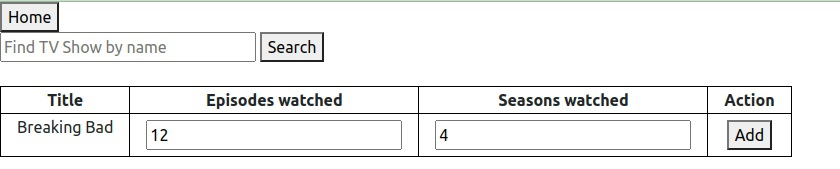
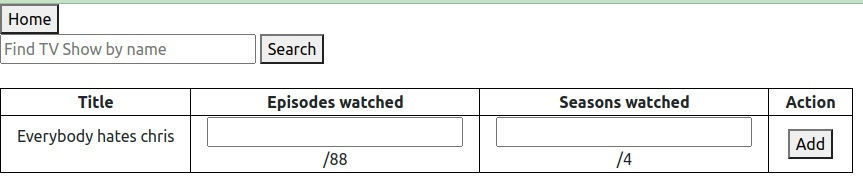
MASTER Front upgrades

diff --git a/services/shows-frontend-service/src/main/resources/templates/myShows.html b/services/shows-frontend-service/src/main/resources/templates/myShows.html
@@ -23,8 +23,8 @@
     <tbody>
     <tr>
         <th>Show</th>
-        <th>Seasons watched</th>
         <th>Episodes watched</th>
+        <th>Seasons watched</th>
         <th>Action</th>
     </tr>
     <tr th:each="record: ${records}">
@@ -32,8 +32,10 @@
 
         <form th:action="@{/front/users/shows/{id}(id=${record.showId})}" th:object="${request}" th:method="put">
             <td style="display:none;"><input type="text" name="showId" th:value="${record.showId}"></td>
-            <td><input type="text" name="episodesWatched" th:value="${record.episodesWatched}"></td>
-            <td><input type="text" name="seasonsWatched" th:value="${record.seasonsWatched}"></td>
+            <td><input type="text" name="episodesWatched" th:value="${record.episodesWatched}"><div>/<th:block
+                    th:text="${record.episodesCount}"></th:block></div></td>
+            <td><input type="text" name="seasonsWatched" th:value="${record.seasonsWatched}"><div>/<th:block
+                    th:text="${record.seasonsCount}"></th:block></div></td>
             <td>
                 <button type="submit">Update</button>
             </td>

diff --git a/services/shows-frontend-service/src/main/resources/templates/addShowUser.html b/services/shows-frontend-service/src/main/resources/templates/addShowUser.html
@@ -28,8 +28,8 @@
         <form th:action="@{/front/users/shows/{id}(id=${show.id})}" th:object="${request}" th:method="post">
             <td style="display:none;"><input type="text" name="showId" th:value="${show.id}"></td>
             <td><p th:text="${show.title}"></p></td>
-            <td><input type="text" name="episodesWatched"></td>
-            <td><input type="text" name="seasonsWatched"></td>
+            <td><input type="text" name="episodesWatched"><div>/<th:block th:text="${show.episodesCount}"></th:block></div></td>
+            <td><input type="text" name="seasonsWatched"><div>/<th:block th:text="${show.seasonsCount}"></th:block></div></td>
             <td>
                 <button type="submit">Add</button>
             </td>

diff --git a/common/data/src/main/java/com/demo/showcase/common/data/UserShowsRepository.java b/common/data/src/main/java/com/demo/showcase/common/data/UserShowsRepository.java
@@ -26,7 +26,7 @@ public class UserShowsRepository extends BaseRepository<UserShowsEntity> {
 
     public List<GetUserShowsResponse> getUserShows(UUID userId) {
         return em.createQuery("""
-                              select new com.demo.showcase.common.dto.GetUserShowsResponse(u.id, u.showId, s.title, u.seasonsWatched, u.episodesWatched)
+                              select new com.demo.showcase.common.dto.GetUserShowsResponse(u.id, u.showId, s.title, u.seasonsWatched, u.episodesWatched, s.seasonsCount, s.episodesCount)
                               from UserShowsEntity u
                               inner join ShowEntity s on u.showId = s.id 
                               where u.userId = :userId and u.isDeleted = false
@@ -56,7 +56,7 @@ public class UserShowsRepository extends BaseRepository<UserShowsEntity> {
             params.put("se", dto.getSeasonsWatched());
         }
         querySb.append(" where u.showId =:showId");
-        querySb.append(" and u.userId =: userId");
+        querySb.append(" and u.userId =: userId and u.isDeleted = false");
         params.put("showId", showId);
         params.put("userId", userId);
 

diff --git a/common/dto/src/main/java/com/demo/showcase/common/dto/GetUserShowsResponse.java b/common/dto/src/main/java/com/demo/showcase/common/dto/GetUserShowsResponse.java
@@ -19,4 +19,8 @@ public class GetUserShowsResponse {
 
     private Integer episodesWatched;
 
+    private Integer seasonsCount;
+
+    private Integer episodesCount;
+
 }
